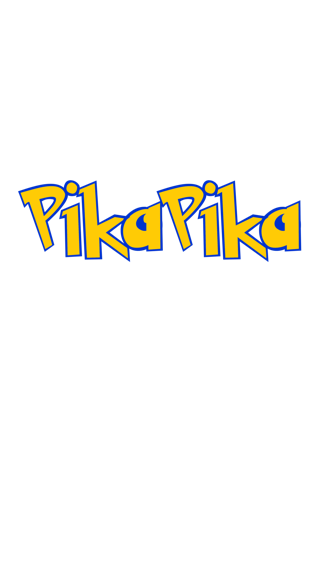
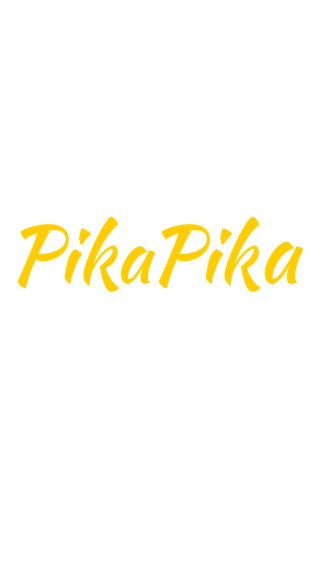
v1.2.0 - Fix refresh - Find shared pokemons in "background" - Filter for shared pokemons

Changed region(s): [[0.0312, 0.2993, 0.9688, 0.5387]]

diff --git a/js/images.js b/js/images.js
@@ -151,3 +151,157 @@ export let pokemonImages = {
     150: require('./../images/pokemon/150.png'),
     151: require('./../images/pokemon/150.png')
 };
+
+export let pokemonFilterImages = {
+    1: require('./../images/pokemon-filter/1.png'),
+    2: require('./../images/pokemon-filter/2.png'),
+    3: require('./../images/pokemon-filter/3.png'),
+    4: require('./../images/pokemon-filter/4.png'),
+    5: require('./../images/pokemon-filter/5.png'),
+    6: require('./../images/pokemon-filter/6.png'),
+    7: require('./../images/pokemon-filter/7.png'),
+    8: require('./../images/pokemon-filter/8.png'),
+    9: require('./../images/pokemon-filter/9.png'),
+    10: require('./../images/pokemon-filter/10.png'),
+    11: require('./../images/pokemon-filter/11.png'),
+    12: require('./../images/pokemon-filter/12.png'),
+    13: require('./../images/pokemon-filter/13.png'),
+    14: require('./../images/pokemon-filter/14.png'),
+    15: require('./../images/pokemon-filter/15.png'),
+    16: require('./../images/pokemon-filter/16.png'),
+    17: require('./../images/pokemon-filter/17.png'),
+    18: require('./../images/pokemon-filter/18.png'),
+    19: require('./../images/pokemon-filter/19.png'),
+    20: require('./../images/pokemon-filter/20.png'),
+    21: require('./../images/pokemon-filter/21.png'),
+    22: require('./../images/pokemon-filter/22.png'),
+    23: require('./../images/pokemon-filter/23.png'),
+    24: require('./../images/pokemon-filter/24.png'),
+    25: require('./../images/pokemon-filter/25.png'),
+    26: require('./../images/pokemon-filter/26.png'),
+    27: require('./../images/pokemon-filter/27.png'),
+    28: require('./../images/pokemon-filter/28.png'),
+    29: require('./../images/pokemon-filter/29.png'),
+    30: require('./../images/pokemon-filter/30.png'),
+    31: require('./../images/pokemon-filter/31.png'),
+    32: require('./../images/pokemon-filter/32.png'),
+    33: require('./../images/pokemon-filter/33.png'),
+    34: require('./../images/pokemon-filter/34.png'),
+    35: require('./../images/pokemon-filter/35.png'),
+    36: require('./../images/pokemon-filter/36.png'),
+    37: require('./../images/pokemon-filter/37.png'),
+    38: require('./../images/pokemon-filter/38.png'),
+    39: require('./../images/pokemon-filter/39.png'),
+    40: require('./../images/pokemon-filter/40.png'),
+    41: require('./../images/pokemon-filter/41.png'),
+    42: require('./../images/pokemon-filter/42.png'),
+    43: require('./../images/pokemon-filter/43.png'),
+    44: require('./../images/pokemon-filter/44.png'),
+    45: require('./../images/pokemon-filter/45.png'),
+    46: require('./../images/pokemon-filter/46.png'),
+    47: require('./../images/pokemon-filter/47.png'),
+    48: require('./../images/pokemon-filter/48.png'),
+    49: require('./../images/pokemon-filter/49.png'),
+    50: require('./../images/pokemon-filter/50.png'),
+    51: require('./../images/pokemon-filter/51.png'),
+    52: require('./../images/pokemon-filter/52.png'),
+    53: require('./../images/pokemon-filter/53.png'),
+    54: require('./../images/pokemon-filter/54.png'),
+    55: require('./../images/pokemon-filter/55.png'),
+    56: require('./../images/pokemon-filter/56.png'),
+    57: require('./../images/pokemon-filter/57.png'),
+    58: require('./../images/pokemon-filter/58.png'),
+    59: require('./../images/pokemon-filter/59.png'),
+    60: require('./../images/pokemon-filter/60.png'),
+    61: require('./../images/pokemon-filter/61.png'),
+    62: require('./../images/pokemon-filter/62.png'),
+    63: require('./../images/pokemon-filter/63.png'),
+    64: require('./../images/pokemon-filter/64.png'),
+    65: require('./../images/pokemon-filter/65.png'),
+    66: require('./../images/pokemon-filter/66.png'),
+    67: require('./../images/pokemon-filter/67.png'),
+    68: require('./../images/pokemon-filter/68.png'),
+    69: require('./../images/pokemon-filter/69.png'),
+    70: require('./../images/pokemon-filter/70.png'),
+    71: require('./../images/pokemon-filter/71.png'),
+    72: require('./../images/pokemon-filter/72.png'),
+    73: require('./../images/pokemon-filter/73.png'),
+    74: require('./../images/pokemon-filter/74.png'),
+    75: require('./../images/pokemon-filter/75.png'),
+    76: require('./../images/pokemon-filter/76.png'),
+    77: require('./../images/pokemon-filter/77.png'),
+    78: require('./../images/pokemon-filter/78.png'),
+    79: require('./../images/pokemon-filter/79.png'),
+    80: require('./../images/pokemon-filter/80.png'),
+    81: require('./../images/pokemon-filter/81.png'),
+    82: require('./../images/pokemon-filter/82.png'),
+    83: require('./../images/pokemon-filter/83.png'),
+    84: require('./../images/pokemon-filter/84.png'),
+    85: require('./../images/pokemon-filter/85.png'),
+    86: require('./../images/pokemon-filter/86.png'),
+    87: require('./../images/pokemon-filter/87.png'),
+    88: require('./../images/pokemon-filter/88.png'),
+    89: require('./../images/pokemon-filter/89.png'),
+    90: require('./../images/pokemon-filter/90.png'),
+    91: require('./../images/pokemon-filter/91.png'),
+    92: require('./../images/pokemon-filter/92.png'),
+    93: require('./../images/pokemon-filter/93.png'),
+    94: require('./../images/pokemon-filter/94.png'),
+    95: require('./../images/pokemon-filter/95.png'),
+    96: require('./../images/pokemon-filter/96.png'),
+    97: require('./../images/pokemon-filter/97.png'),
+    98: require('./../images/pokemon-filter/98.png'),
+    99: require('./../images/pokemon-filter/99.png'),
+    100: require('./../images/pokemon-filter/100.png'),
+    101: require('./../images/pokemon-filter/101.png'),
+    102: require('./../images/pokemon-filter/102.png'),
+    103: require('./../images/pokemon-filter/103.png'),
+    104: require('./../images/pokemon-filter/104.png'),
+    105: require('./../images/pokemon-filter/105.png'),
+    106: require('./../images/pokemon-filter/106.png'),
+    107: require('./../images/pokemon-filter/107.png'),
+    108: require('./../images/pokemon-filter/108.png'),
+    109: require('./../images/pokemon-filter/109.png'),
+    110: require('./../images/pokemon-filter/110.png'),
+    111: require('./../images/pokemon-filter/111.png'),
+    112: require('./../images/pokemon-filter/112.png'),
+    113: require('./../images/pokemon-filter/113.png'),
+    114: require('./../images/pokemon-filter/114.png'),
+    115: require('./../images/pokemon-filter/115.png'),
+    116: require('./../images/pokemon-filter/116.png'),
+    117: require('./../images/pokemon-filter/117.png'),
+    118: require('./../images/pokemon-filter/118.png'),
+    119: require('./../images/pokemon-filter/119.png'),
+    120: require('./../images/pokemon-filter/120.png'),
+    121: require('./../images/pokemon-filter/121.png'),
+    122: require('./../images/pokemon-filter/122.png'),
+    123: require('./../images/pokemon-filter/123.png'),
+    124: require('./../images/pokemon-filter/124.png'),
+    125: require('./../images/pokemon-filter/125.png'),
+    126: require('./../images/pokemon-filter/126.png'),
+    127: require('./../images/pokemon-filter/127.png'),
+    128: require('./../images/pokemon-filter/128.png'),
+    129: require('./../images/pokemon-filter/129.png'),
+    130: require('./../images/pokemon-filter/130.png'),
+    131: require('./../images/pokemon-filter/131.png'),
+    132: require('./../images/pokemon-filter/132.png'),
+    133: require('./../images/pokemon-filter/133.png'),
+    134: require('./../images/pokemon-filter/134.png'),
+    135: require('./../images/pokemon-filter/135.png'),
+    136: require('./../images/pokemon-filter/136.png'),
+    137: require('./../images/pokemon-filter/137.png'),
+    138: require('./../images/pokemon-filter/138.png'),
+    139: require('./../images/pokemon-filter/139.png'),
+    140: require('./../images/pokemon-filter/140.png'),
+    141: require('./../images/pokemon-filter/141.png'),
+    142: require('./../images/pokemon-filter/142.png'),
+    143: require('./../images/pokemon-filter/143.png'),
+    144: require('./../images/pokemon-filter/144.png'),
+    145: require('./../images/pokemon-filter/145.png'),
+    146: require('./../images/pokemon-filter/146.png'),
+    147: require('./../images/pokemon-filter/147.png'),
+    148: require('./../images/pokemon-filter/148.png'),
+    149: require('./../images/pokemon-filter/149.png'),
+    150: require('./../images/pokemon-filter/150.png'),
+    151: require('./../images/pokemon-filter/150.png')
+};

diff --git a/js/app.js b/js/app.js
@@ -8,17 +8,18 @@ import TimerMixin from 'react-timer-mixin';
 import Toast from 'react-native-root-toast';
 import Spinner from 'react-native-spinkit';
 import moment from 'moment';
+import _ from 'underscore';
 
 import styles from './styles';
 import strings from './localization';
 import { PokemonService, TrainerService } from './services';
 import { getParameter, pokeTest } from './utils';
-import { pokemonImages } from './images';
+import { pokemonImages, pokemonFilterImages } from './images';
 import { pokemonSounds } from './sounds';
 
 let { width, height } = Dimensions.get('window');
 
-let TIMER = 30;
+let TIMER = 10;
 
 export class Pikapika extends Component {
     watchID = (null: ?number);
@@ -54,7 +55,7 @@ export class Pikapika extends Component {
                         this.verifyToken(user)
                         .then((user) => {
                             this.setState({user});
-                            this.getPokemons();
+                            this.getSharedPokemons();
                         })
                         .catch((error)=>{
                             this.logOut();
@@ -112,6 +113,7 @@ export class Pikapika extends Component {
 
     onLogIn(user) {
         this.loading(false);
+        this.getSharedPokemons();
 
         if(user) {
             this.setState({user});
@@ -146,11 +148,7 @@ export class Pikapika extends Component {
                 this.loading(false);
 
                 if(data) {
-                    let pokemonList = [];
-                    this.setState({pokemonList});
-
-                    pokemonList = data;
-                    this.setState({pokemonList});
+                    this.mergePokemons(data);
                 }
                 else{
                     this.showError(strings.errors.service);
@@ -159,6 +157,7 @@ export class Pikapika extends Component {
                 this.searchTimer();
             })
             .catch((error) => {
+                console.log(error);
                 this.loading(false);
 
                 // if(false && error && (error.status === 408 || error.status === 504)) {
@@ -183,6 +182,7 @@ export class Pikapika extends Component {
                     this.showError(strings.errors.tooManyRequests);
                 }
                 else {
+                    //this.showError(strings.errors.tooManyRequests);
                     this.showError(strings.errors.service);
                 }
 
@@ -194,8 +194,38 @@ export class Pikapika extends Component {
         }
     }
 
-    getBackgroundPokemons(){
-        
+    getSharedPokemons(){
+        if(this.position){
+            PokemonService.get(this.position.coords)
+            .then((data) => {
+                console.log(data);
+                this.mergePokemons(data, true);
+            });
+        }
+
+        TimerMixin.setTimeout(() => {
+            this.getSharedPokemons();
+        }, 10000);
+    }
+
+    mergePokemons(data, isShared) {
+        let pokemonList = this.state.pokemonList;
+
+        data.forEach((pokemon, key) => {
+            if(!_.findWhere(pokemonList, {id: pokemon.id})) {
+                pokemon.isShared = isShared;
+                pokemonList.push(pokemon);
+            }
+        });
+
+        pokemonList.forEach((pokemon, key) => {
+            pokemon.timeleft = new Date(pokemon.expireAt) - new Date();
+            if(pokemon.timeleft <= 0){
+                pokemonList.splice(key, 1);
+            }
+        });
+
+        this.setState({pokemonList});
     }
 
     verifyToken(user) {
@@ -354,7 +384,7 @@ export class Pikapika extends Component {
                             ).format('mm:ss')
                         )
                     }
-                    image={pokemonImages[pokemon.number]}
+                    image={pokemon.isShared ? pokemonFilterImages[pokemon.number] : pokemonImages[pokemon.number]}
                     coordinate={{
                         latitude: pokemon.position.lat,
                         longitude: pokemon.position.lng

diff --git a/js/services.js b/js/services.js
@@ -21,6 +21,20 @@ export let PokemonService = {
             console.log(error);
             return Promise.reject(error);
         });
+    },
+    get: function(coords){
+        return fetch(`${host}/pokemons/${coords.latitude}/${coords.longitude}`, {
+            method: 'GET',
+            headers: {
+                'Accept': 'application/json',
+            }
+        })
+        .then(manageResponse('json'))
+        .then((response) => response.data)
+        .catch((error) => {
+            console.log(error);
+            return Promise.reject(error);
+        });
     }
 };
 
